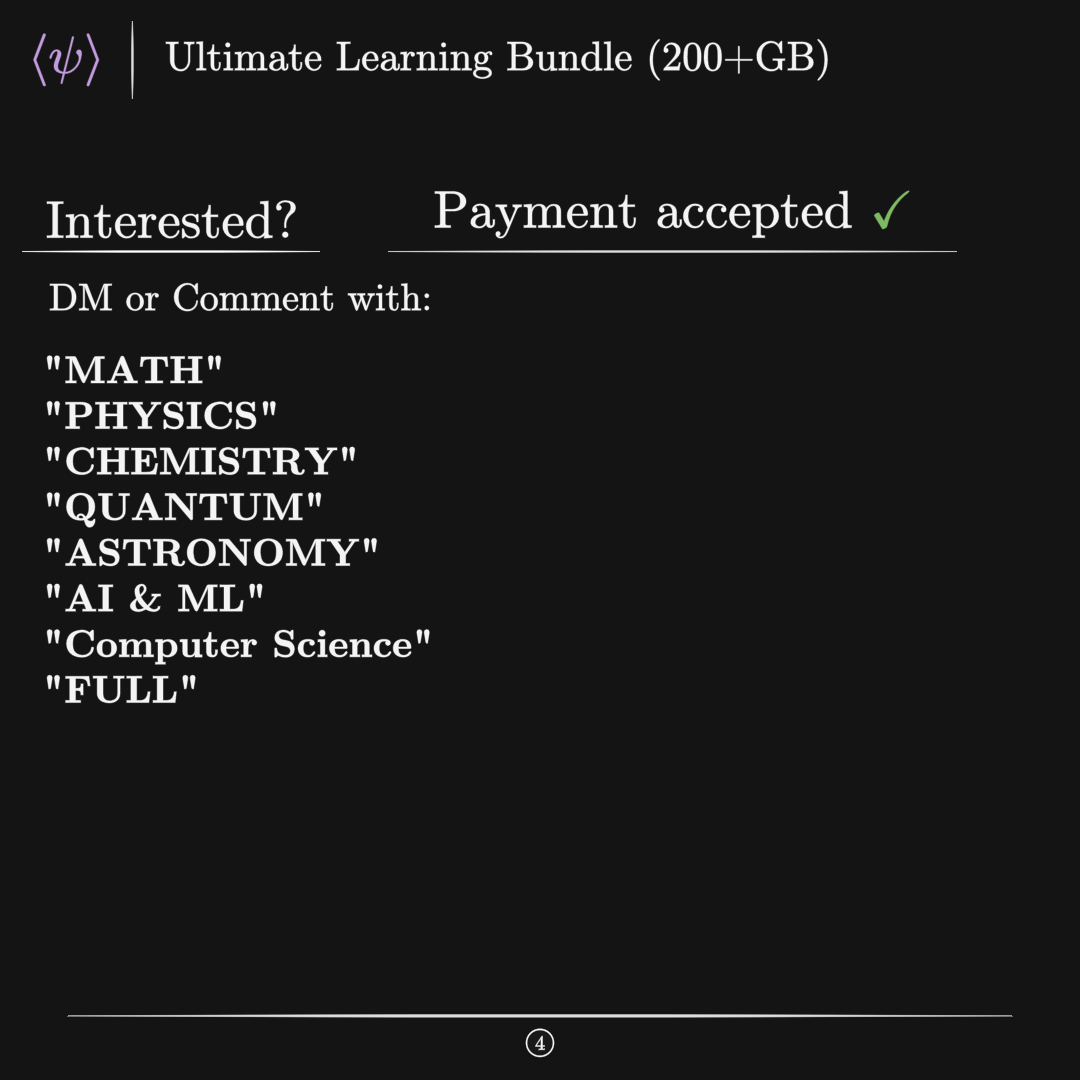
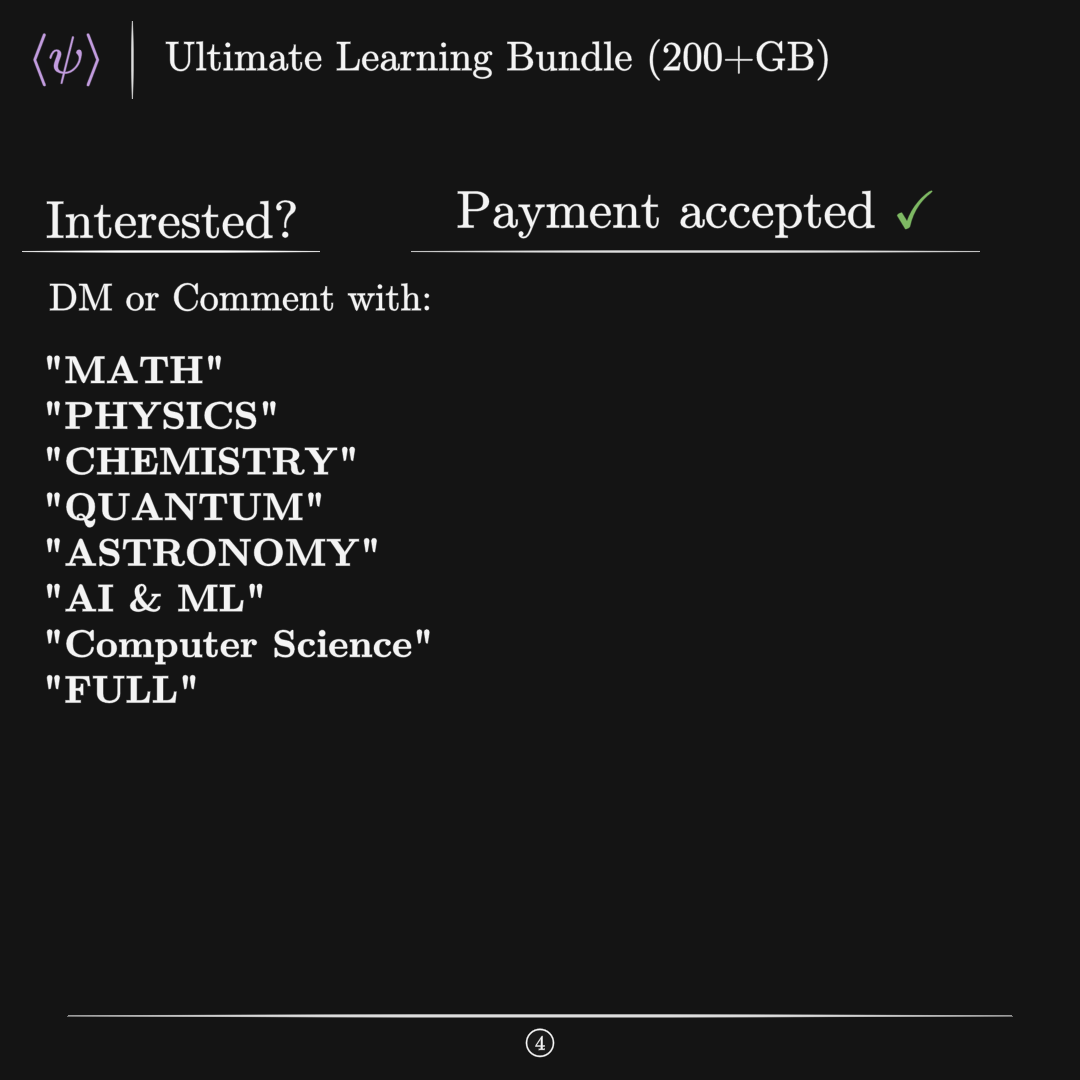
f

Changed region(s): [[0.3972, 0.1528, 0.8556, 0.2444]]

diff --git a/test.py b/test.py
@@ -178,6 +178,6 @@ class Payment(PaidTemplate):
         payment_un.set_width(payment.get_width() * 1.2)
         payment_un.insert_n_curves(10)
         payment_un.set_stroke(width=[0.5, 1.5, 1.5, 0.5])
-        payment_un.next_to(under, RIGHT, buff=LARGE_BUFF * 0.5)
+        payment_un.next_to(under, RIGHT, buff=LARGE_BUFF * 0.67)
         payment.next_to(payment_un, UP, buff=SMALL_BUFF)
         self.add(payment, payment_un)
